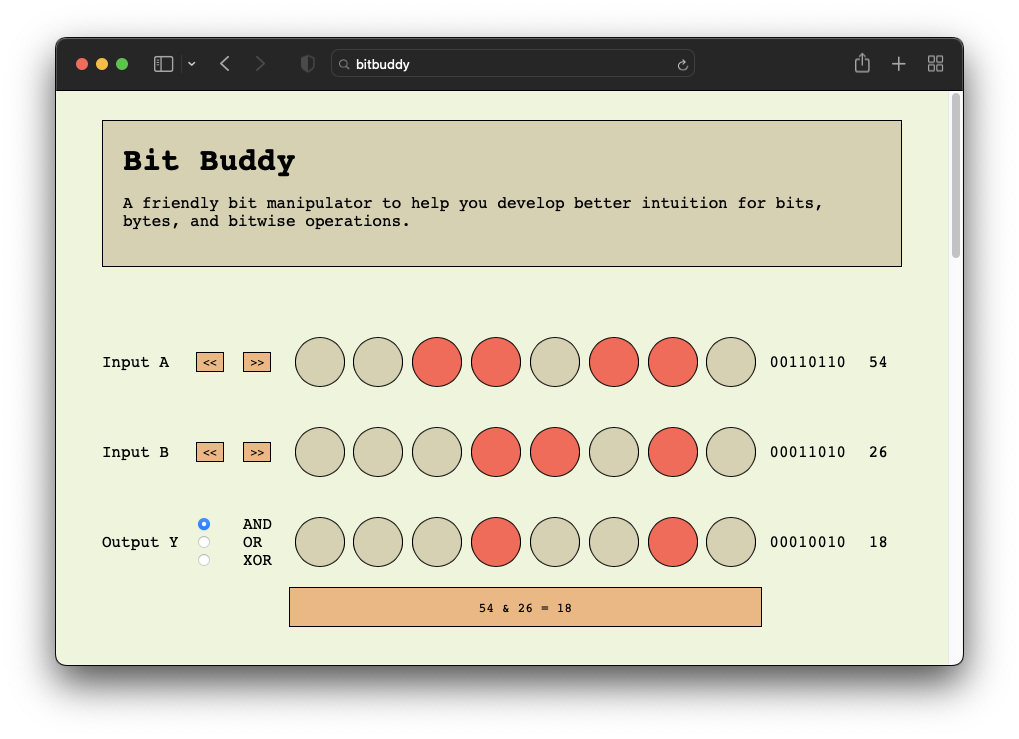
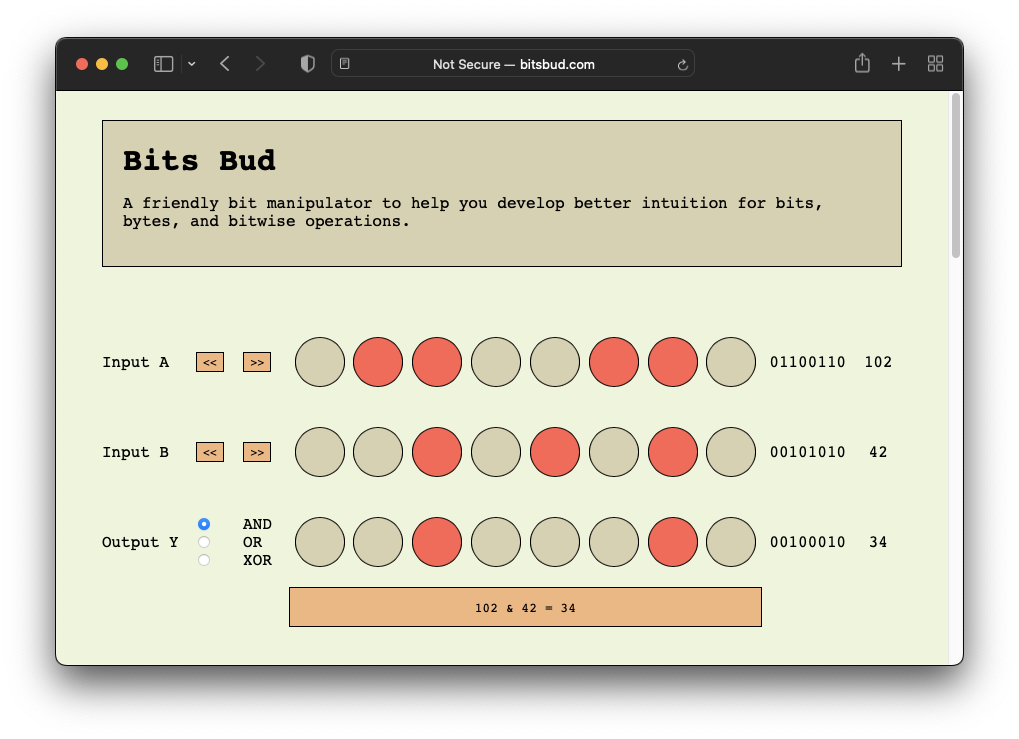
Update bitsbud screenshot and update blog post language to reflect app name revision

diff --git a/_posts/2023-04-25-bitsbud.md b/_posts/2023-04-25-bitsbud.md
@@ -1,5 +1,6 @@
 ---
-title: "Bit Buddy"
+title: "BitsBud"
+last_modified_at: 2023-04-26
 tags:
   - JavaScript
 tech:
@@ -10,8 +11,8 @@ category: JS Playground
 series-intro: >
   Fun/weird experiments with JavaScript.
 customlinks:
-  - label: Bit Buddy 
-    url: https://www.datadoodad.com/js_playground/03_bitwise-operations/
+  - label: BitsBud 
+    url: http://bitsbud.com/
   - label: GitHub Repo
     url: https://github.com/zrottman/js_playground/tree/main/03_bitwise-operations
 
